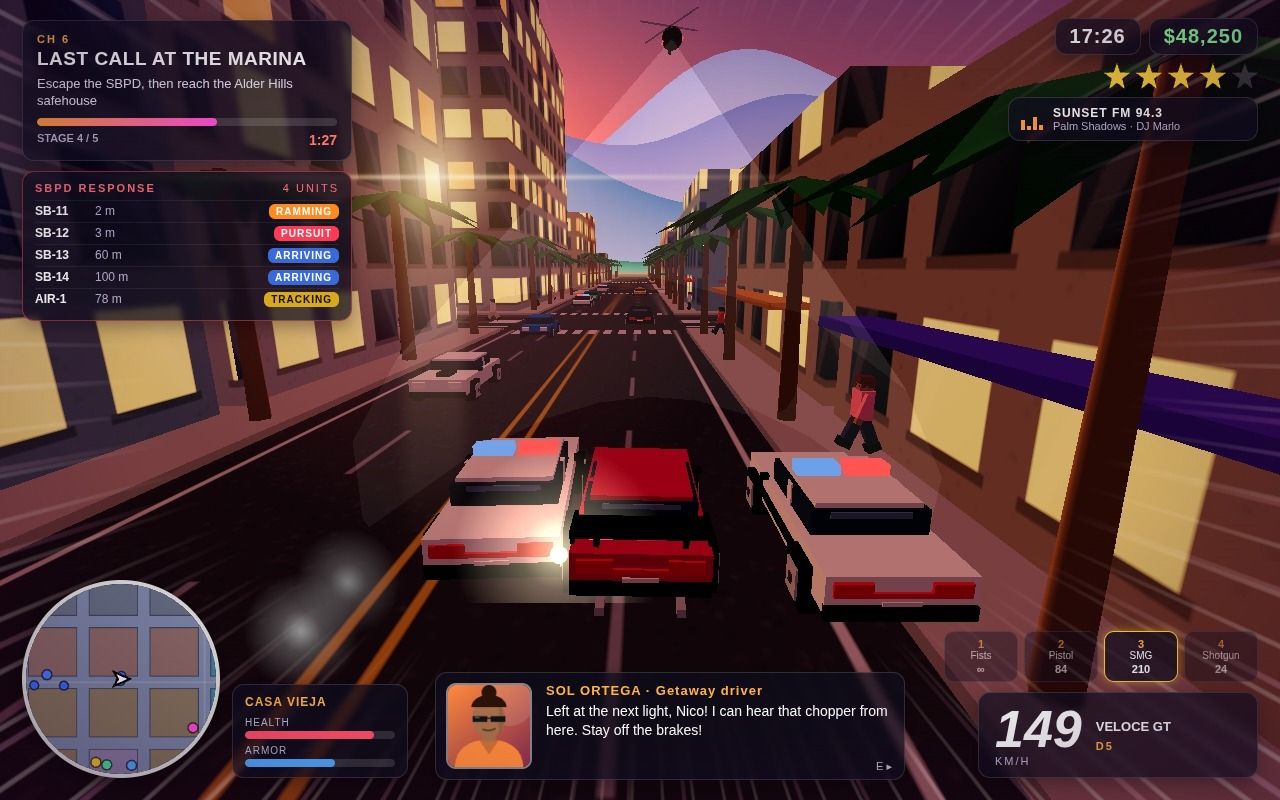
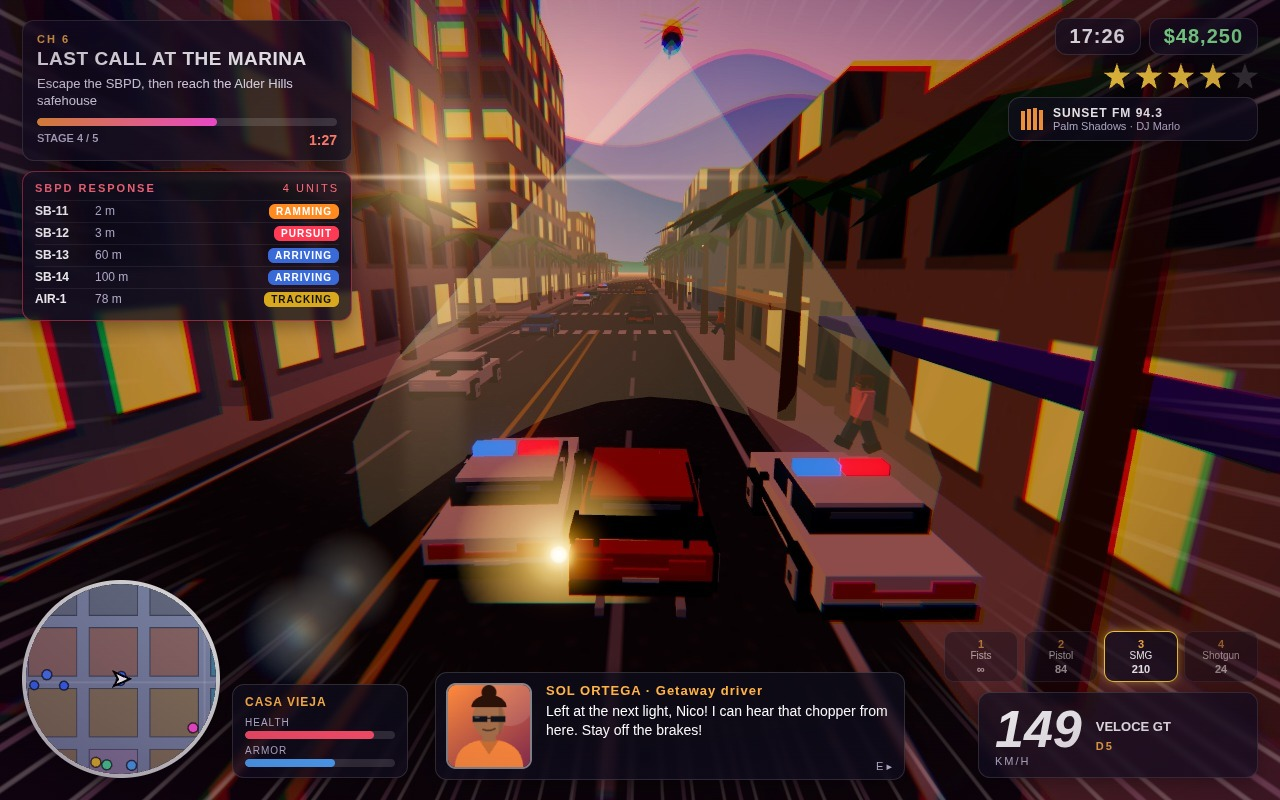
Post-processing: HDR bloom, ACES composite, warm grade, vignette, speed fringe; graphics setting

diff --git a/game/src/render/postProcessing.js b/game/src/render/postProcessing.js
@@ -1,0 +1,74 @@
+// Hand-written post-processing chain: HDR scene target (MSAA) -> soft bright-pass -> separable gaussian bloom at 1/2 and 1/4
+// resolution -> composite with ACES filmic tone mapping, warm golden-hour grade, vignette and a speed-driven chromatic fringe.
+// Falls back to plain renderer output (with the renderer's own ACES) if any target or shader fails.
+import * as THREE from 'three';
+
+const VS = 'varying vec2 vUv; void main(){ vUv = uv; gl_Position = vec4(position.xy, 0.0, 1.0); }';
+const BRIGHT = `uniform sampler2D tSrc; uniform float threshold; uniform float knee; varying vec2 vUv;
+  void main(){ vec2 px = vec2(dFdx(vUv.x), dFdy(vUv.y)) * 0.5;
+    vec3 c = (texture2D(tSrc, vUv + vec2(-px.x, -px.y)).rgb + texture2D(tSrc, vUv + vec2(px.x, -px.y)).rgb + texture2D(tSrc, vUv + vec2(-px.x, px.y)).rgb + texture2D(tSrc, vUv + px).rgb) * 0.25;
+    c = min(c, vec3(24.0)); float l = max(c.r, max(c.g, c.b)); float s = clamp(l - threshold + knee, 0.0, 2.0 * knee); s = s * s / (4.0 * knee + 1e-4);
+    float w = max(s, l - threshold) / max(l, 1e-4); gl_FragColor = vec4(c * w, 1.0); }`;
+const BLUR = `uniform sampler2D tSrc; uniform vec2 dir; varying vec2 vUv;
+  void main(){ vec3 c = texture2D(tSrc, vUv).rgb * 0.2270270;
+    c += (texture2D(tSrc, vUv + dir * 1.3846153).rgb + texture2D(tSrc, vUv - dir * 1.3846153).rgb) * 0.3162162;
+    c += (texture2D(tSrc, vUv + dir * 3.2307692).rgb + texture2D(tSrc, vUv - dir * 3.2307692).rgb) * 0.0702702; gl_FragColor = vec4(c, 1.0); }`;
+const COPY = 'uniform sampler2D tSrc; varying vec2 vUv; void main(){ gl_FragColor = vec4(texture2D(tSrc, vUv).rgb, 1.0); }';
+const COMPOSITE = `uniform sampler2D tScene; uniform sampler2D tBloomA; uniform sampler2D tBloomB; uniform float exposure; uniform float bloom;
+  uniform float fringe; uniform float vig; uniform vec3 warm; uniform float sat; varying vec2 vUv;
+  vec3 aces(vec3 x){ // fitted ACES RRT+ODT (Hill), applied in linear space
+    const mat3 i = mat3(0.59719, 0.07600, 0.02840, 0.35458, 0.90834, 0.13383, 0.04823, 0.01566, 0.83777);
+    const mat3 o = mat3(1.60475, -0.10208, -0.00327, -0.53108, 1.10813, -0.07276, -0.07367, -0.00605, 1.07602);
+    x = i * x; vec3 a = x * (x + 0.0245786) - 0.000090537; vec3 b = x * (0.983729 * x + 0.4329510) + 0.238081; return clamp(o * (a / b), 0.0, 1.0); }
+  vec3 toSRGB(vec3 c){ return mix(c * 12.92, 1.055 * pow(c, vec3(1.0 / 2.4)) - 0.055, step(0.0031308, c)); }
+  void main(){ vec2 d = vUv - 0.5; float r2 = dot(d, d);
+    vec3 c; if (fringe > 0.001) { vec2 o = d * fringe * r2 * 0.022; c = vec3(texture2D(tScene, vUv + o).r, texture2D(tScene, vUv).g, texture2D(tScene, vUv - o).b); }
+    else c = texture2D(tScene, vUv).rgb;
+    c += (texture2D(tBloomA, vUv).rgb * 0.55 + texture2D(tBloomB, vUv).rgb * 0.75) * bloom;
+    c = aces(c * exposure * warm);
+    float l = dot(c, vec3(0.2126, 0.7152, 0.0722)); c = max(mix(vec3(l), c, sat), 0.0);
+    c = mix(c * vec3(0.96, 0.99, 1.06), c, smoothstep(0.0, 0.35, l)); // cool the deep shadows a touch, keep highlights warm
+    c *= 1.0 - vig * smoothstep(0.18, 0.75, r2 * 1.6);
+    gl_FragColor = vec4(toSRGB(c), 1.0); }`;
+
+export function createPost(renderer, opts = {}) {
+  const gl = renderer.getContext(), isGL2 = renderer.capabilities.isWebGL2;
+  const floatOK = isGL2 && (renderer.extensions.has('EXT_color_buffer_float') || renderer.extensions.has('EXT_color_buffer_half_float'));
+  const type = floatOK ? THREE.HalfFloatType : THREE.UnsignedByteType;
+  const mk = (w, h, samples = 0) => new THREE.WebGLRenderTarget(w, h, { type, samples, depthBuffer: samples > 0 || w < 0, minFilter: THREE.LinearFilter, magFilter: THREE.LinearFilter, generateMipmaps: false });
+  const size = new THREE.Vector2(); renderer.getDrawingBufferSize(size);
+  const sceneRT = new THREE.WebGLRenderTarget(size.x, size.y, { type, samples: isGL2 ? (opts.samples ?? 4) : 0, depthBuffer: true, minFilter: THREE.LinearFilter, magFilter: THREE.LinearFilter, generateMipmaps: false });
+  const half = [mk(1, 1), mk(1, 1)], quarter = [mk(1, 1), mk(1, 1)];
+  const quad = new THREE.Mesh(new THREE.PlaneGeometry(2, 2)), cam = new THREE.OrthographicCamera(-1, 1, 1, -1, 0, 1), qs = new THREE.Scene(); quad.frustumCulled = false; qs.add(quad);
+  const sm = (fs, uniforms) => new THREE.ShaderMaterial({ vertexShader: VS, fragmentShader: fs, uniforms, depthTest: false, depthWrite: false, toneMapped: false });
+  const bright = sm(BRIGHT, { tSrc: { value: null }, threshold: { value: 1.0 }, knee: { value: 0.5 } });
+  const blur = sm(BLUR, { tSrc: { value: null }, dir: { value: new THREE.Vector2() } });
+  const copy = sm(COPY, { tSrc: { value: null } });
+  const comp = sm(COMPOSITE, { tScene: { value: sceneRT.texture }, tBloomA: { value: half[0].texture }, tBloomB: { value: quarter[0].texture }, exposure: { value: 1.0 }, bloom: { value: 1.0 },
+    fringe: { value: 0 }, vig: { value: 0.32 }, warm: { value: new THREE.Vector3(1.04, 1.0, 0.93) }, sat: { value: 1.12 } });
+  const pass = (mat, target) => { quad.material = mat; renderer.setRenderTarget(target); renderer.render(qs, cam); };
+  const blurPair = (rt, n) => { const w = rt[0].width, h = rt[0].height; for (let k = 0; k < n; k++) { const s = 1 + k * 0.5;
+    blur.uniforms.tSrc.value = rt[0].texture; blur.uniforms.dir.value.set(s / w, 0); pass(blur, rt[1]);
+    blur.uniforms.tSrc.value = rt[1].texture; blur.uniforms.dir.value.set(0, s / h); pass(blur, rt[0]); } };
+  function setSize(w, h) { sceneRT.setSize(w, h); const hw = Math.max(1, w >> 1), hh = Math.max(1, h >> 1); half.forEach((r) => r.setSize(hw, hh)); quarter.forEach((r) => r.setSize(Math.max(1, w >> 2), Math.max(1, h >> 2))); }
+  setSize(size.x, size.y);
+  const post = {
+    enabled: true, ok: true, params: comp.uniforms, threshold: bright.uniforms.threshold, hdr: floatOK,
+    setSize(w, h) { renderer.getDrawingBufferSize(size); setSize(size.x, size.y); },
+    render(scene, camera, fx = {}) {
+      if (!post.enabled || !post.ok) { renderer.toneMapping = THREE.ACESFilmicToneMapping; renderer.setRenderTarget(null); renderer.render(scene, camera); return; }
+      try {
+        const tm = renderer.toneMapping; renderer.toneMapping = THREE.NoToneMapping;
+        renderer.setRenderTarget(sceneRT); renderer.render(scene, camera);
+        bright.uniforms.tSrc.value = sceneRT.texture; pass(bright, half[0]); blurPair(half, 2);
+        copy.uniforms.tSrc.value = half[0].texture; pass(copy, quarter[0]); blurPair(quarter, 3);
+        comp.uniforms.fringe.value = fx.fringe || 0; comp.uniforms.exposure.value = fx.exposure ?? renderer.toneMappingExposure;
+        pass(comp, null); renderer.toneMapping = tm;
+        const err = post.checked ? 0 : gl.getError(); post.checked = true; if (err) throw new Error('GL error ' + err);
+      } catch (e) { console.warn('post-processing disabled: ' + e.message); post.ok = false; renderer.setRenderTarget(null); renderer.toneMapping = THREE.ACESFilmicToneMapping; renderer.render(scene, camera); }
+    },
+  };
+  return post;
+}
+// HDR emissive colour: a hex colour scaled above 1.0 so it crosses the bloom threshold (render targets are linear half-float).
+export const hdr = (hex, k) => new THREE.Color(hex).multiplyScalar(k);

diff --git a/game/src/main.js b/game/src/main.js
@@ -31,9 +31,14 @@ import { initAudio, sfx } from './audio/soundEngine.js';
 import { cycleRadio, updateRadio } from './audio/radioStations.js';
 import { saveGame, readSave, applySave } from './save/saveGame.js';
 import { runShot, runSelfTest } from './shots/screenshotScenes.js';
+import { createPost } from './render/postProcessing.js';
 
 const params = new URLSearchParams(location.search), shotName = params.get('shot'), selftest = params.has('selftest');
-let renderer, sky, pedT = 0;
+let renderer, sky, post = null, pedT = 0;
+function draw() {
+  const c = G.p.car, sp = G.mode === 'play' && c ? Math.abs(c.speed) : 0;
+  if (post) { post.enabled = G.settings.post !== 'low'; post.render(G.scene, G.camera, { fringe: Math.max(0, Math.min(1, (sp - 20) / 25)) }); } else renderer.render(G.scene, G.camera);
+}
 window.addEventListener('error', (e) => console.error('CONSOLE_ERROR ' + e.message + ' @' + (e.filename || '').split('/').pop() + ':' + e.lineno));
 window.addEventListener('unhandledrejection', (e) => console.error('CONSOLE_ERROR ' + e.reason));
 
@@ -97,7 +102,7 @@ function keys() {
 }
 export function renderFrame(snap) {
   const focus = G.p; if (G.mode === 'title') { const o = Math.sin(G.time * 0.05) * 60; Object.assign(rig.aerial, { x: 190 + o, y: 120, z: 390, tx: 150 + o * 0.5, ty: 0, tz: -70 }); }
-  updateCamera(0.016, !!snap); sky.update(G.clock, rig.mode === 'aerial' ? { x: 0, z: 0 } : focus, G.camera); renderer.render(G.scene, G.camera); screenFx();
+  updateCamera(0.016, !!snap); sky.update(G.clock, rig.mode === 'aerial' ? { x: 0, z: 0 } : focus, G.camera); draw(); screenFx();
 }
 function screenFx() {
   const sp = G.mode === 'play' && G.p.car ? Math.abs(G.p.car.speed) : 0; speedEl.style.opacity = String(Math.max(0, Math.min(0.85, (sp - 18) / 30)));
@@ -108,15 +113,16 @@ let last = 0;
 function frame(t) {
   requestAnimationFrame(frame); const dt = Math.min(0.05, (t - last) / 1000 || 0.016); last = t; keys(); stepGame(dt);
   if (G.mode === 'title') { G.p.x = 0; G.p.z = 0; }
-  updateCamera(dt, false); sky.update(G.clock, rig.mode === 'aerial' ? { x: 0, z: 0 } : G.p, G.camera); renderer.render(G.scene, G.camera);
+  updateCamera(dt, false); sky.update(G.clock, rig.mode === 'aerial' ? { x: 0, z: 0 } : G.p, G.camera); draw();
   if (G.mode !== 'title') updateHud(dt); endFrame();
 }
 async function boot() {
   const canvas = document.getElementById('game'); G.seed = +params.get('seed') || 1; const rng = seedRandom(G.seed);
   renderer = G.renderer = new THREE.WebGLRenderer({ canvas, antialias: !shotName, preserveDrawingBuffer: !!shotName, powerPreference: 'high-performance' }); renderer.setPixelRatio(shotName ? 1 : Math.min(devicePixelRatio, 1.5)); renderer.setSize(shotName ? 1280 : innerWidth, shotName ? 800 : innerHeight);
   renderer.shadowMap.enabled = true; renderer.shadowMap.type = THREE.PCFSoftShadowMap; renderer.toneMapping = THREE.ACESFilmicToneMapping; renderer.toneMappingExposure = 1.3;
+  try { post = G.post = createPost(renderer, { samples: 4 }); } catch (e) { console.warn('post-processing unavailable: ' + e.message); post = null; }
   const scene = G.scene = new THREE.Scene(); const camera = G.camera = new THREE.PerspectiveCamera(60, shotName ? 1.6 : innerWidth / innerHeight, 0.5, 1800); scene.add(camera);
-  if (!shotName) addEventListener('resize', () => { renderer.setSize(innerWidth, innerHeight); camera.aspect = innerWidth / innerHeight; camera.updateProjectionMatrix(); });
+  if (!shotName) addEventListener('resize', () => { renderer.setSize(innerWidth, innerHeight); post?.setSize(); camera.aspect = innerWidth / innerHeight; camera.updateProjectionMatrix(); });
   initInput(canvas); input.onUnlock = () => { if (G.mode === 'play') pause(true); };
   buildLayout(rng); const tex = { facade: facadeMaps() };
   sky = createSky(scene); buildBeachAndSea(scene, rng); buildRoads(scene); buildCity(scene, tex, rng); buildProps(scene, rng); initEffects(scene);

diff --git a/game/index.html b/game/index.html
@@ -44,7 +44,7 @@
 </div>
 <div id="pause" class="screen hidden"><div class="panel"><h2>PAUSED</h2><div class="menu"><button data-act="resume">Resume</button><button data-act="map">City Map</button><button data-act="save">Save Game</button><button data-act="controls">Controls</button><button data-act="settings">Settings</button><button data-act="quit">Quit to Title</button></div></div></div>
 <div id="controls" class="screen hidden"><div class="panel wide"><h2>CONTROLS</h2><div class="keys" id="keysList"></div><button data-act="back">Back</button></div></div>
-<div id="settings" class="screen hidden"><div class="panel"><h2>SETTINGS</h2><label>Master volume <input id="setVol" type="range" min="0" max="1" step="0.05" value="0.7"></label><label>Mouse sensitivity <input id="setSens" type="range" min="0.3" max="2.5" step="0.1" value="1"></label><button data-act="back">Back</button></div></div>
+<div id="settings" class="screen hidden"><div class="panel"><h2>SETTINGS</h2><label>Master volume <input id="setVol" type="range" min="0" max="1" step="0.05" value="0.7"></label><label>Mouse sensitivity <input id="setSens" type="range" min="0.3" max="2.5" step="0.1" value="1"></label><label>Graphics <select id="setPost"><option value="high">High: bloom + filmic grade</option><option value="low">Low: plain render</option></select></label><button data-act="back">Back</button></div></div>
 <div id="shop" class="screen hidden"><div class="panel wide"><h2>CALDER ARMS</h2><div id="shopMoney"></div><div id="shopList"></div><button data-act="closeShop">Leave</button></div></div>
 <div id="cityMap" class="screen hidden">
   <div class="mapframe"><div class="maphead"><h2>CITY MAP · SOLVANE BAY</h2><span>M / Esc to close</span></div><canvas id="mapCanvas" width="880" height="716"></canvas></div>

diff --git a/game/src/ui/menus.js b/game/src/ui/menus.js
@@ -15,6 +15,7 @@ export function initMenus(handlers) {
   $('keysList').innerHTML = KEYS.map(([k, t]) => `<div><b>${k}</b>${t}</div>`).join('');
   document.querySelectorAll('[data-act]').forEach((b) => b.addEventListener('click', () => { sfx.click(); handlers[b.dataset.act]?.(); }));
   $('setVol').addEventListener('input', (e) => setVolume(+e.target.value)); $('setSens').addEventListener('input', (e) => { G.settings.sens = +e.target.value; });
+  $('setPost').addEventListener('change', (e) => { G.settings.post = e.target.value; });
 }
 export function showScreen(id) {
   ALL.forEach((s) => $(s).classList.toggle('hidden', s !== id)); if (id === 'title') { const sv = readSave(); $('btnContinue').disabled = !sv; $('contSub').textContent = sv ? saveLine(sv) : ''; } if (id === 'cityMap') drawCityMap(); if (id === 'shop') fillShop();

diff --git a/game/styles/menus.css b/game/styles/menus.css
@@ -28,3 +28,4 @@
 .slot.used { border-style: solid; border-color: rgba(255, 210, 60, 0.55); background: rgba(255, 210, 60, 0.07); line-height: 1.4; }
 .slotbtns { display: flex; gap: 8px; margin-top: 8px; } .slotbtns button { flex: 1; padding: 7px 10px; font-size: 13px; font-weight: 800; border-radius: 8px; border: 1px solid rgba(255, 255, 255, 0.3); background: rgba(40, 34, 70, 0.9); color: #fff; cursor: pointer; letter-spacing: 1px; }
 .slotbtns button:hover:not(:disabled) { background: linear-gradient(90deg, #ff9a3c, #ff4fd8); border-color: transparent; } .slotbtns button:disabled { opacity: 0.35; cursor: default; }
+.panel select { background: #1c1426; color: #fff; border: 1px solid #ffb347; border-radius: 6px; padding: 4px 8px; font: inherit; }

diff --git a/game/src/core/gameState.js b/game/src/core/gameState.js
@@ -6,7 +6,7 @@ export const G = {
   cars: [], actors: [], markers: [], pickups: [],
   p: null, wanted: { heat: 0, stars: 0, unseen: 0, bust: 0 },
   mission: null, completed: [], packages: [], money: 500, xp: 0,
-  settings: { vol: 0.7, sens: 1 }, toasts: [], shake: 0, radio: 0, buildingMat: null, deadT: 0, deadKind: '',
+  settings: { vol: 0.7, sens: 1, post: 'high' }, toasts: [], shake: 0, radio: 0, buildingMat: null, deadT: 0, deadKind: '',
   heli: null, cam: { yaw: Math.PI, pitch: 0.15 }, hudRate: 0,
 };
 export const levelFromXp = (xp) => { let l = 1; RESPECT_XP.forEach((t, i) => { if (xp >= t) l = i + 1; }); return l; };
